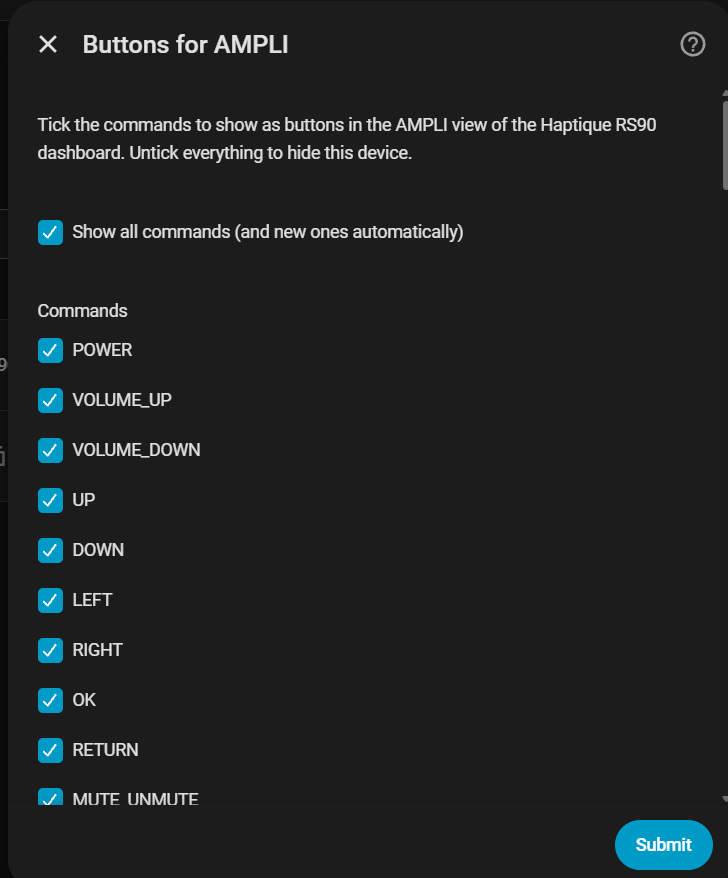
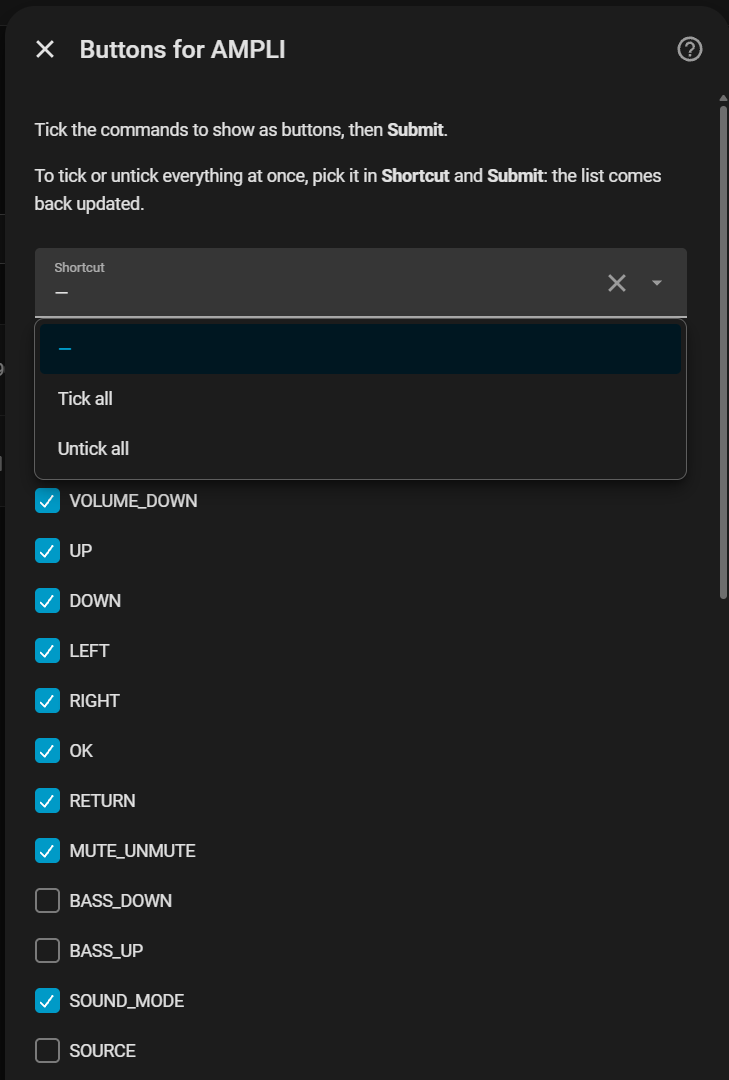
Docs: screenshots of the new command buttons options
Claude-Session: https://claude.ai/code/session_01RmF8zjtjch7bKiZ8vuNVQd

diff --git a/README_FR.md b/README_FR.md
@@ -186,8 +186,9 @@ Par défaut, toutes les commandes sont affichées. Pour ne garder que celles que
 Choisissez **All commands** (Toutes les commandes) pour revenir à toutes les commandes, ou **None: hide this device** (Aucune : masquer cet appareil) pour retirer son onglet. Rechargez le tableau de bord pour voir le changement.
 
 <p align="center">
-<img src="documentation/screenshots/options_menu.png" alt="Options de l'intégration" width="45%" />
-<img src="documentation/screenshots/options_commands.png" alt="Choisir les boutons de commandes" width="45%" />
+<img src="documentation/screenshots/options_menu.png" alt="Options de l'intégration" width="30%" />
+<img src="documentation/screenshots/options_mode.png" alt="Choisir quels boutons" width="30%" />
+<img src="documentation/screenshots/options_commands.png" alt="Choisir les boutons de commandes" width="30%" />
 </p>
 
 ### Toujours à jour

diff --git a/README.md b/README.md
@@ -186,8 +186,9 @@ By default every command is shown. To keep only the ones you use:
 Choose **All commands** to go back to every command, or **None: hide this device** to remove its view. Reload the dashboard to see the change.
 
 <p align="center">
-<img src="documentation/screenshots/options_menu.png" alt="Integration options" width="45%" />
-<img src="documentation/screenshots/options_commands.png" alt="Choose the command buttons" width="45%" />
+<img src="documentation/screenshots/options_menu.png" alt="Integration options" width="30%" />
+<img src="documentation/screenshots/options_mode.png" alt="Choose which buttons" width="30%" />
+<img src="documentation/screenshots/options_commands.png" alt="Choose the command buttons" width="30%" />
 </p>
 
 ### Always up to date
